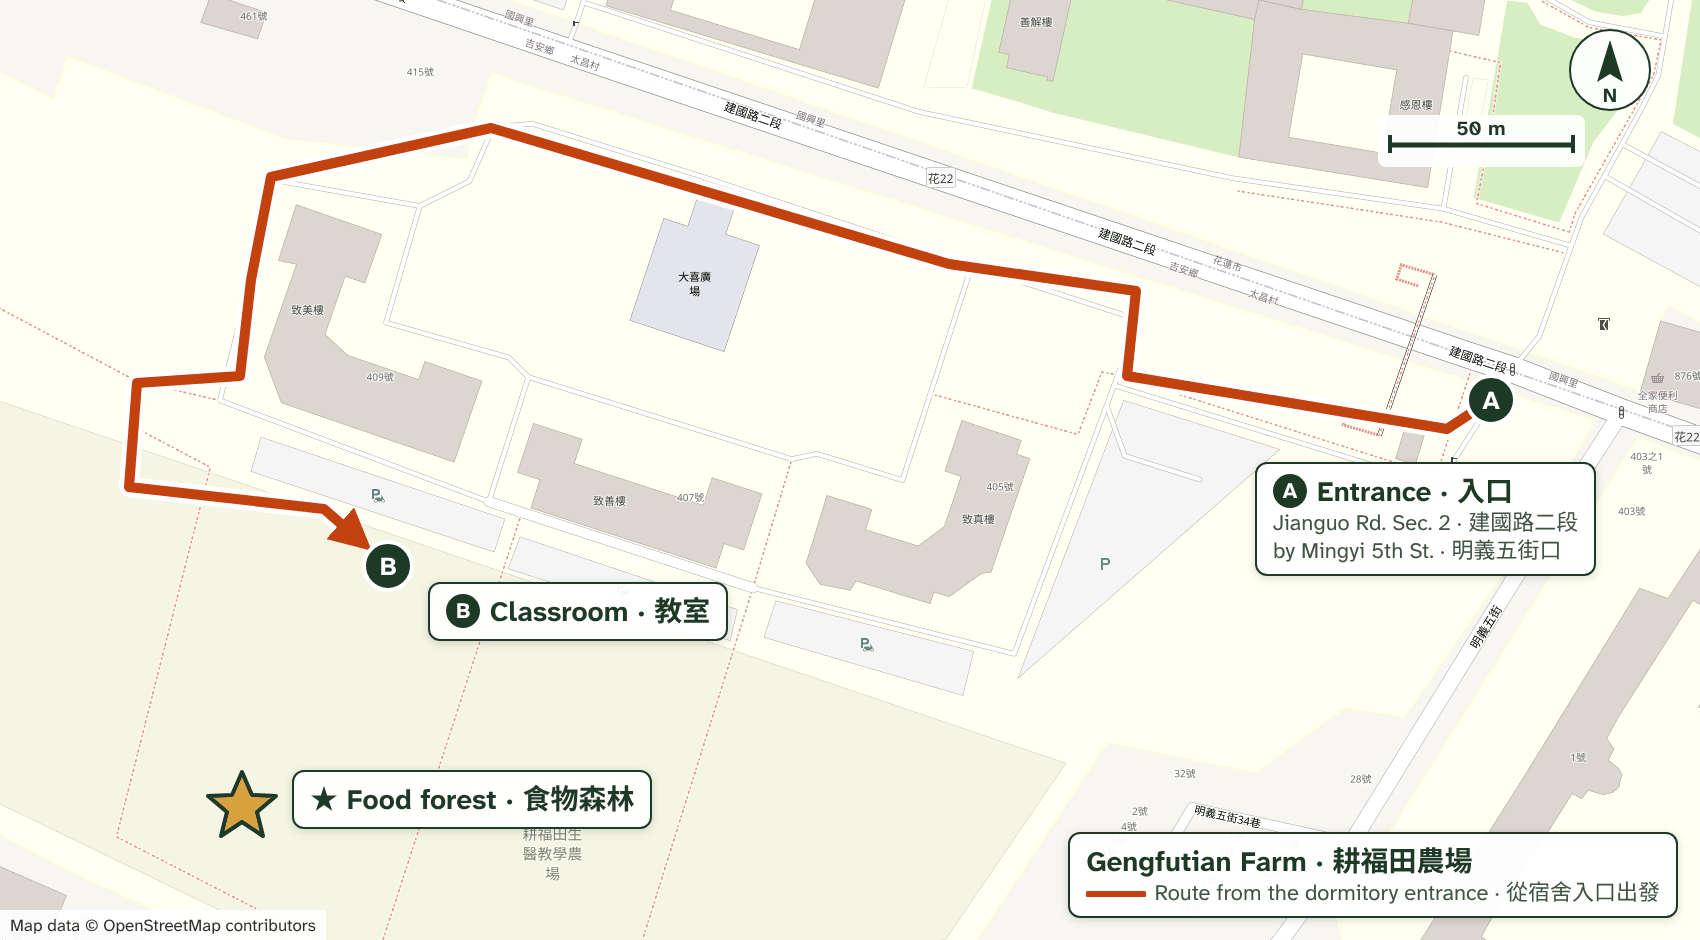
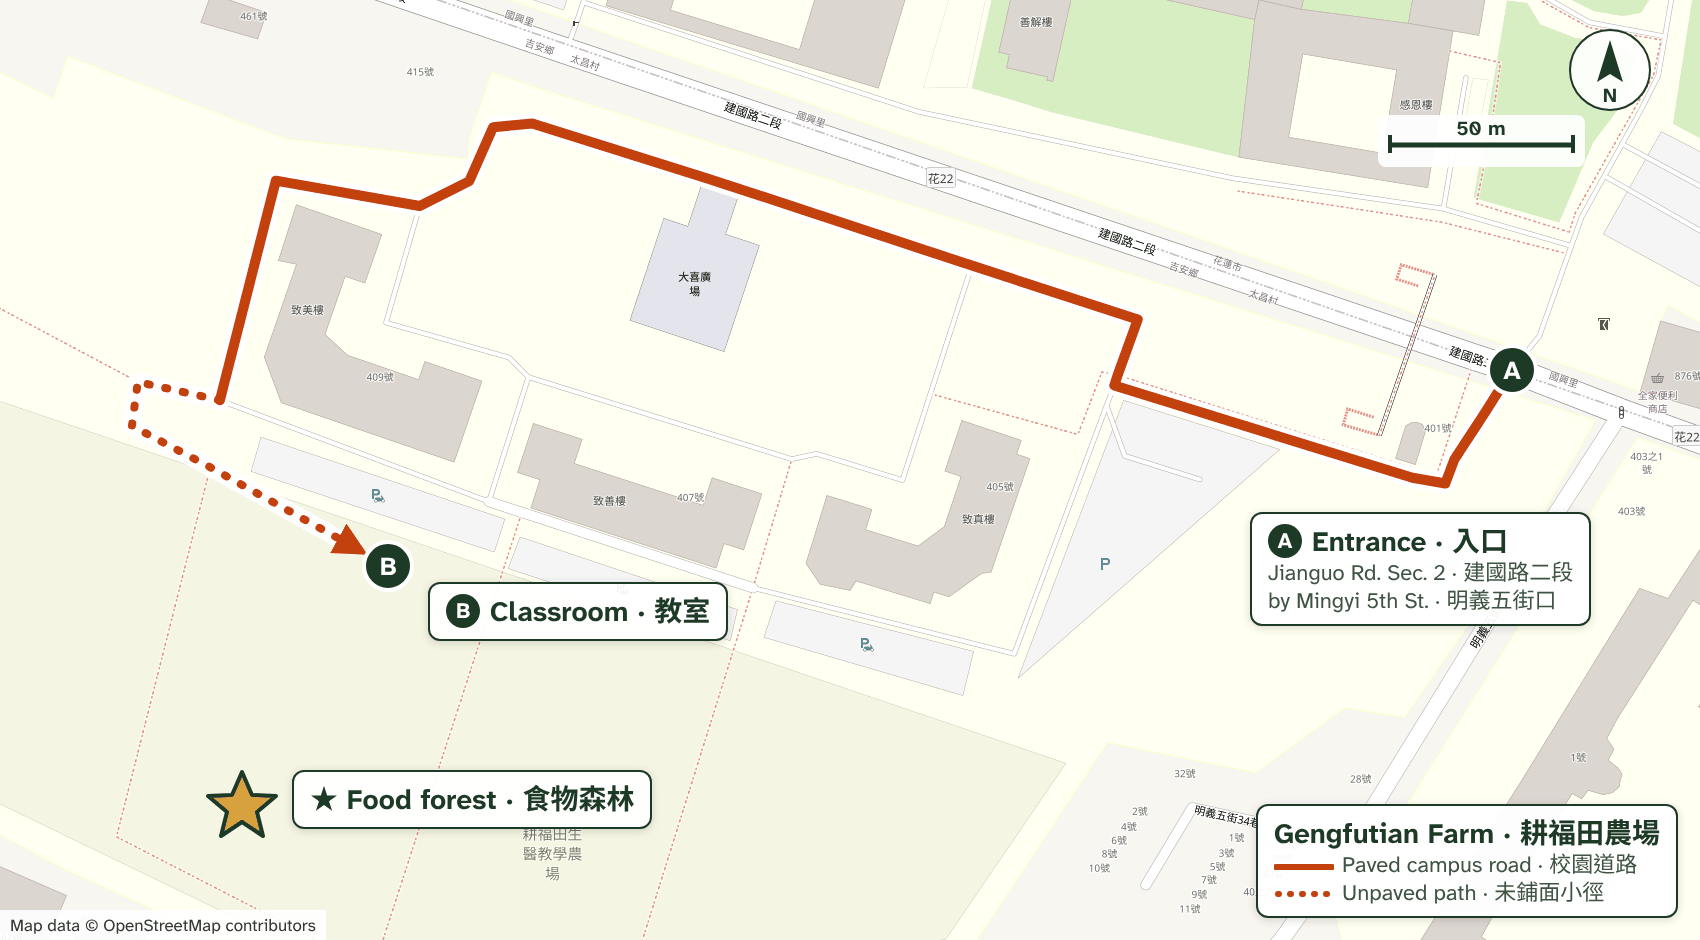
Field Days | Gengfutian route now follows the paved campus road exactly (OpenStreetMap road data), unpaved last stretch dotted; directions updated (EN and ZH)
Claude-Session: https://claude.ai/code/session_01HjfDKB61EnNtbAjYtjfWwu

diff --git a/src/index.html b/src/index.html
@@ -1058,14 +1058,15 @@ document.addEventListener('click',function(e){
     <section class="fd-where" id="getting-there" aria-labelledby="fd-where-h">
       <h3 id="fd-where-h"><span lang="en">Getting to Gengfutian Farm</span><span lang="zh-Hant">前往耕福田農場</span></h3>
       <figure class="fd-map">
-        <span lang="en"><img src="img/gengfutian-directions.png" width="1700" height="940" loading="lazy" alt="Map of the route to Gengfutian Farm. From the dormitory entrance (A) on Jianguo Road Section 2, at the corner of Mingyi 5th Street, the route follows the campus road west along the north side of the dormitories, goes around the west end of the Zhimei Building, turns south and ends at the classroom (B). The food forest, marked with a star, lies about 80 metres south-west of the classroom."></span><span lang="zh-Hant"><img src="img/gengfutian-directions.png" width="1700" height="940" loading="lazy" alt="前往耕福田農場的路線圖。從建國路二段與明義五街口的宿舍入口（A）出發，沿宿舍北側的校園道路向西行，繞過致美樓西端後向南轉，抵達教室（B）。以星號標示的食物森林位於教室西南方約 80 公尺處。"></span>
+        <span lang="en"><img src="img/gengfutian-directions.png" width="1700" height="940" loading="lazy" alt="Map of the route to Gengfutian Farm. From the dormitory entrance (A) on Jianguo Road Section 2, at the corner of Mingyi 5th Street, the route goes straight for about 30 metres, turns right onto the paved campus road and follows it as it winds west along the north side of the dormitories, then turns south along the Zhimei Building to where the pavement ends. A short unpaved path, first right, then left, leads to the classroom (B). The food forest, marked with a star, lies about 80 metres south-west of the classroom."></span><span lang="zh-Hant"><img src="img/gengfutian-directions.png" width="1700" height="940" loading="lazy" alt="前往耕福田農場的路線圖。從建國路二段與明義五街口的宿舍入口（A）出發，直行約 30 公尺後右轉進入校園柏油路，沿著道路蜿蜒向西，行經宿舍北側，再沿致美樓向南，直到柏油路盡頭。接著走一小段未鋪面小徑，先右轉再左轉，即抵達教室（B）。以星號標示的食物森林位於教室西南方約 80 公尺處。"></span>
         <figcaption><span lang="en">Map data © OpenStreetMap contributors.</span><span lang="zh-Hant">地圖資料 © OpenStreetMap 貢獻者。</span></figcaption>
       </figure>
       <ol class="fd-steps">
         <li><span lang="en">Enter at the Tzu Chi University dormitory entrance on Jianguo Road Section 2 (建國路二段), at the corner of Mingyi 5th Street (明義五街) (A).</span><span lang="zh-Hant">從建國路二段與明義五街口的慈濟大學宿舍入口進入（A）。</span></li>
-        <li><span lang="en">Follow the campus road west along the north side of the dormitories, past the courtyard.</span><span lang="zh-Hant">沿宿舍北側的校園道路向西行，經過中庭。</span></li>
-        <li><span lang="en">At the west end, go around the Zhimei Building (致美樓) and turn south.</span><span lang="zh-Hant">到西端後繞過致美樓，向南轉。</span></li>
-        <li><span lang="en">The route ends at the classroom (B). The food forest lies about 80 m further south-west (star).</span><span lang="zh-Hant">路線終點為教室（B）。食物森林位於教室西南方約 80 公尺處（星號）。</span></li>
+        <li><span lang="en">Go straight for about 30 m, then turn right onto the paved campus road.</span><span lang="zh-Hant">直行約 30 公尺後，右轉進入校園柏油路。</span></li>
+        <li><span lang="en">Follow the road through all its turns as it winds west along the north side of the dormitories, past the courtyard (大喜廣場).</span><span lang="zh-Hant">沿著道路的每個轉彎前行，道路蜿蜒向西，經過宿舍北側與大喜廣場。</span></li>
+        <li><span lang="en">At the west end, the road turns left (south) along the Zhimei Building (致美樓). Follow it to where the pavement ends.</span><span lang="zh-Hant">到西端後，道路沿致美樓向左（南）轉，請沿路走到柏油路盡頭。</span></li>
+        <li><span lang="en">Turn right, then left onto the unpaved path; the classroom (B) is straight ahead. The food forest lies about 80 m further south-west (star).</span><span lang="zh-Hant">先右轉再左轉，走上未鋪面小徑，教室（B）就在正前方。食物森林位於教室西南方約 80 公尺處（星號）。</span></li>
       </ol>
       <p class="btn-row"><a class="btn ghost" href="https://maps.app.goo.gl/kjoQpfYQiZW8n7XJ6" target="_blank" rel="noopener"><span lang="en">Entrance in Google Maps</span><span lang="zh-Hant">在 Google 地圖開啟入口</span> <span aria-hidden="true">↗</span></a><a class="btn ghost" href="https://www.google.com/maps/search/?api=1&amp;query=23.9950603%2C121.5615374" target="_blank" rel="noopener"><span lang="en">Food forest in Google Maps</span><span lang="zh-Hant">在 Google 地圖開啟食物森林</span> <span aria-hidden="true">↗</span></a></p>
     </section>

diff --git a/field-days/index.html b/field-days/index.html
@@ -695,14 +695,15 @@ document.addEventListener('click',function(e){
     <section class="fd-where" id="getting-there" aria-labelledby="fd-where-h">
       <h3 aria-level="2" id="fd-where-h"><span lang="en">Getting to Gengfutian Farm</span></h3>
       <figure class="fd-map">
-        <span lang="en"><img src="../img/gengfutian-directions.png" width="1700" height="940" loading="lazy" alt="Map of the route to Gengfutian Farm. From the dormitory entrance (A) on Jianguo Road Section 2, at the corner of Mingyi 5th Street, the route follows the campus road west along the north side of the dormitories, goes around the west end of the Zhimei Building, turns south and ends at the classroom (B). The food forest, marked with a star, lies about 80 metres south-west of the classroom."></span>
+        <span lang="en"><img src="../img/gengfutian-directions.png" width="1700" height="940" loading="lazy" alt="Map of the route to Gengfutian Farm. From the dormitory entrance (A) on Jianguo Road Section 2, at the corner of Mingyi 5th Street, the route goes straight for about 30 metres, turns right onto the paved campus road and follows it as it winds west along the north side of the dormitories, then turns south along the Zhimei Building to where the pavement ends. A short unpaved path, first right, then left, leads to the classroom (B). The food forest, marked with a star, lies about 80 metres south-west of the classroom."></span>
         <figcaption><span lang="en">Map data © OpenStreetMap contributors.</span></figcaption>
       </figure>
       <ol class="fd-steps">
         <li><span lang="en">Enter at the Tzu Chi University dormitory entrance on Jianguo Road Section 2 (建國路二段), at the corner of Mingyi 5th Street (明義五街) (A).</span></li>
-        <li><span lang="en">Follow the campus road west along the north side of the dormitories, past the courtyard.</span></li>
-        <li><span lang="en">At the west end, go around the Zhimei Building (致美樓) and turn south.</span></li>
-        <li><span lang="en">The route ends at the classroom (B). The food forest lies about 80 m further south-west (star).</span></li>
+        <li><span lang="en">Go straight for about 30 m, then turn right onto the paved campus road.</span></li>
+        <li><span lang="en">Follow the road through all its turns as it winds west along the north side of the dormitories, past the courtyard (大喜廣場).</span></li>
+        <li><span lang="en">At the west end, the road turns left (south) along the Zhimei Building (致美樓). Follow it to where the pavement ends.</span></li>
+        <li><span lang="en">Turn right, then left onto the unpaved path; the classroom (B) is straight ahead. The food forest lies about 80 m further south-west (star).</span></li>
       </ol>
       <p class="btn-row"><a class="btn ghost" href="https://maps.app.goo.gl/kjoQpfYQiZW8n7XJ6" target="_blank" rel="noopener"><span lang="en">Entrance in Google Maps</span> <span aria-hidden="true">↗</span></a><a class="btn ghost" href="https://www.google.com/maps/search/?api=1&amp;query=23.9950603%2C121.5615374" target="_blank" rel="noopener"><span lang="en">Food forest in Google Maps</span> <span aria-hidden="true">↗</span></a></p>
     </section>

diff --git a/zh/field-days/index.html b/zh/field-days/index.html
@@ -695,14 +695,15 @@ document.addEventListener('click',function(e){
     <section class="fd-where" id="getting-there" aria-labelledby="fd-where-h">
       <h3 aria-level="2" id="fd-where-h"><span lang="zh-Hant">前往耕福田農場</span></h3>
       <figure class="fd-map">
-        <span lang="zh-Hant"><img src="../../img/gengfutian-directions.png" width="1700" height="940" loading="lazy" alt="前往耕福田農場的路線圖。從建國路二段與明義五街口的宿舍入口（A）出發，沿宿舍北側的校園道路向西行，繞過致美樓西端後向南轉，抵達教室（B）。以星號標示的食物森林位於教室西南方約 80 公尺處。"></span>
+        <span lang="zh-Hant"><img src="../../img/gengfutian-directions.png" width="1700" height="940" loading="lazy" alt="前往耕福田農場的路線圖。從建國路二段與明義五街口的宿舍入口（A）出發，直行約 30 公尺後右轉進入校園柏油路，沿著道路蜿蜒向西，行經宿舍北側，再沿致美樓向南，直到柏油路盡頭。接著走一小段未鋪面小徑，先右轉再左轉，即抵達教室（B）。以星號標示的食物森林位於教室西南方約 80 公尺處。"></span>
         <figcaption><span lang="zh-Hant">地圖資料 © OpenStreetMap 貢獻者。</span></figcaption>
       </figure>
       <ol class="fd-steps">
         <li><span lang="zh-Hant">從建國路二段與明義五街口的慈濟大學宿舍入口進入（A）。</span></li>
-        <li><span lang="zh-Hant">沿宿舍北側的校園道路向西行，經過中庭。</span></li>
-        <li><span lang="zh-Hant">到西端後繞過致美樓，向南轉。</span></li>
-        <li><span lang="zh-Hant">路線終點為教室（B）。食物森林位於教室西南方約 80 公尺處（星號）。</span></li>
+        <li><span lang="zh-Hant">直行約 30 公尺後，右轉進入校園柏油路。</span></li>
+        <li><span lang="zh-Hant">沿著道路的每個轉彎前行，道路蜿蜒向西，經過宿舍北側與大喜廣場。</span></li>
+        <li><span lang="zh-Hant">到西端後，道路沿致美樓向左（南）轉，請沿路走到柏油路盡頭。</span></li>
+        <li><span lang="zh-Hant">先右轉再左轉，走上未鋪面小徑，教室（B）就在正前方。食物森林位於教室西南方約 80 公尺處（星號）。</span></li>
       </ol>
       <p class="btn-row"><a class="btn ghost" href="https://maps.app.goo.gl/kjoQpfYQiZW8n7XJ6" target="_blank" rel="noopener"><span lang="zh-Hant">在 Google 地圖開啟入口</span> <span aria-hidden="true">↗</span></a><a class="btn ghost" href="https://www.google.com/maps/search/?api=1&amp;query=23.9950603%2C121.5615374" target="_blank" rel="noopener"><span lang="zh-Hant">在 Google 地圖開啟食物森林</span> <span aria-hidden="true">↗</span></a></p>
     </section>

diff --git a/api/fd.js b/api/fd.js
@@ -130,8 +130,8 @@ const GFT = {
   forest: 'https://www.google.com/maps/search/?api=1&query=23.9950603%2C121.5615374',
   img: `${SITE}/img/gengfutian-directions.png`,
   addr: ['Tzu Chi University dormitory entrance, Sec. 2, Jianguo Rd., Ji’an Township, Hualien County (corner of Mingyi 5th St.)', '花蓮縣吉安鄉建國路二段，慈濟大學宿舍入口（明義五街口）'],
-  route: ['From the entrance (A), follow the campus road west along the north side of the dormitories, go around the Zhimei Building (致美樓) at the west end and turn south to the classroom (B). The food forest lies about 80 m further south-west.',
-          '從入口（A）沿宿舍北側的校園道路向西行，到西端繞過致美樓後向南轉，即抵達教室（B）。食物森林位於教室西南方約 80 公尺處。'],
+  route: ['From the entrance (A), go straight for about 30 m, then turn right onto the paved campus road. Follow it through all its turns, west along the north side of the dormitories, then left (south) along the Zhimei Building (致美樓) to where the pavement ends. Turn right, then left onto the unpaved path; the classroom (B) is straight ahead. The food forest lies about 80 m further south-west.',
+          '從入口（A）直行約 30 公尺後，右轉進入校園柏油路。沿著道路的每個轉彎前行，經宿舍北側向西，再沿致美樓向左（南）轉，走到柏油路盡頭。接著先右轉再左轉走上未鋪面小徑，教室（B）就在正前方。食物森林位於教室西南方約 80 公尺處。'],
 };
 const isGft = d => /gengfutian|耕福田/i.test((d.place && `${d.place.en} ${d.place.zh}`) || '');
 const dirUrl = zh => `${SITE}/${zh ? 'zh/' : ''}field-days#getting-there`;
